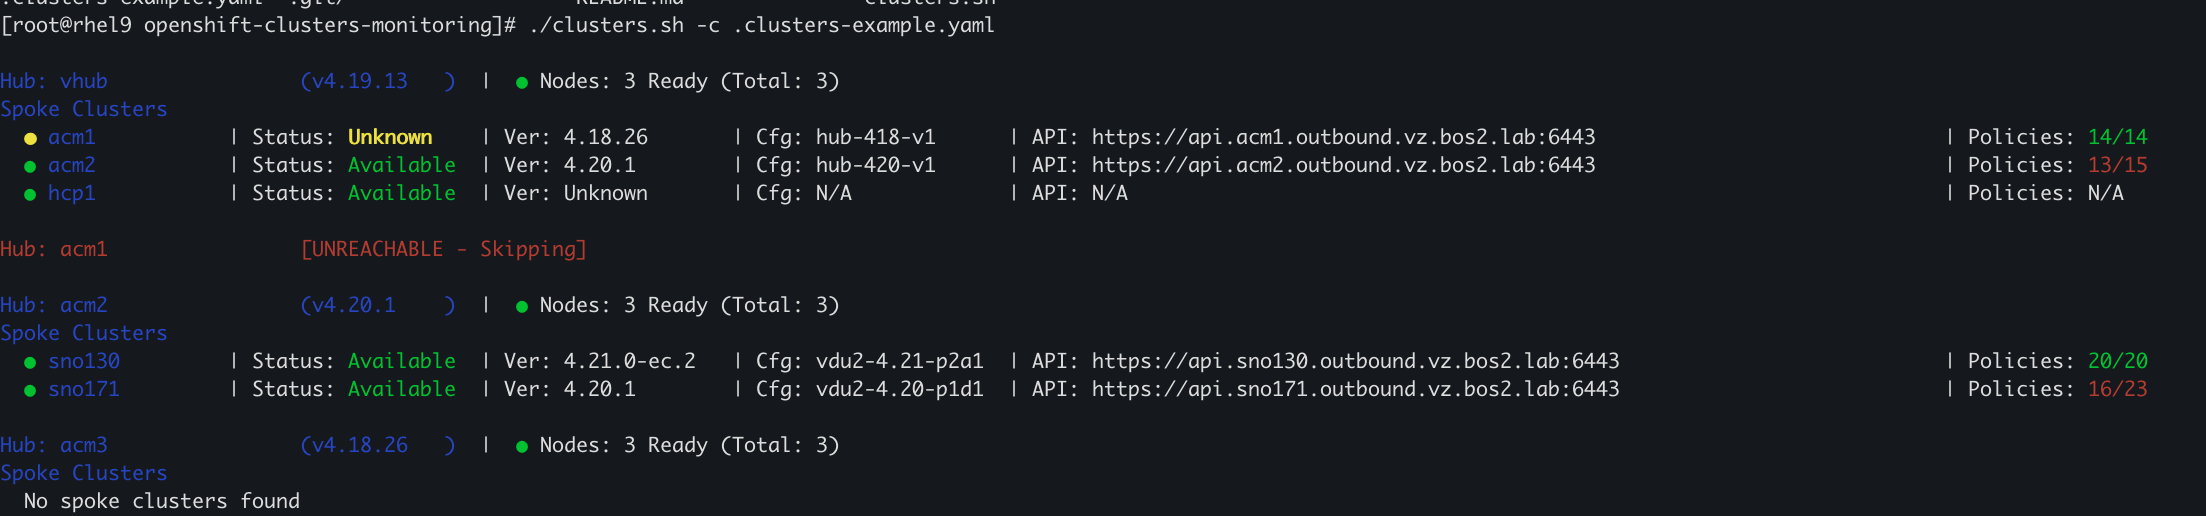
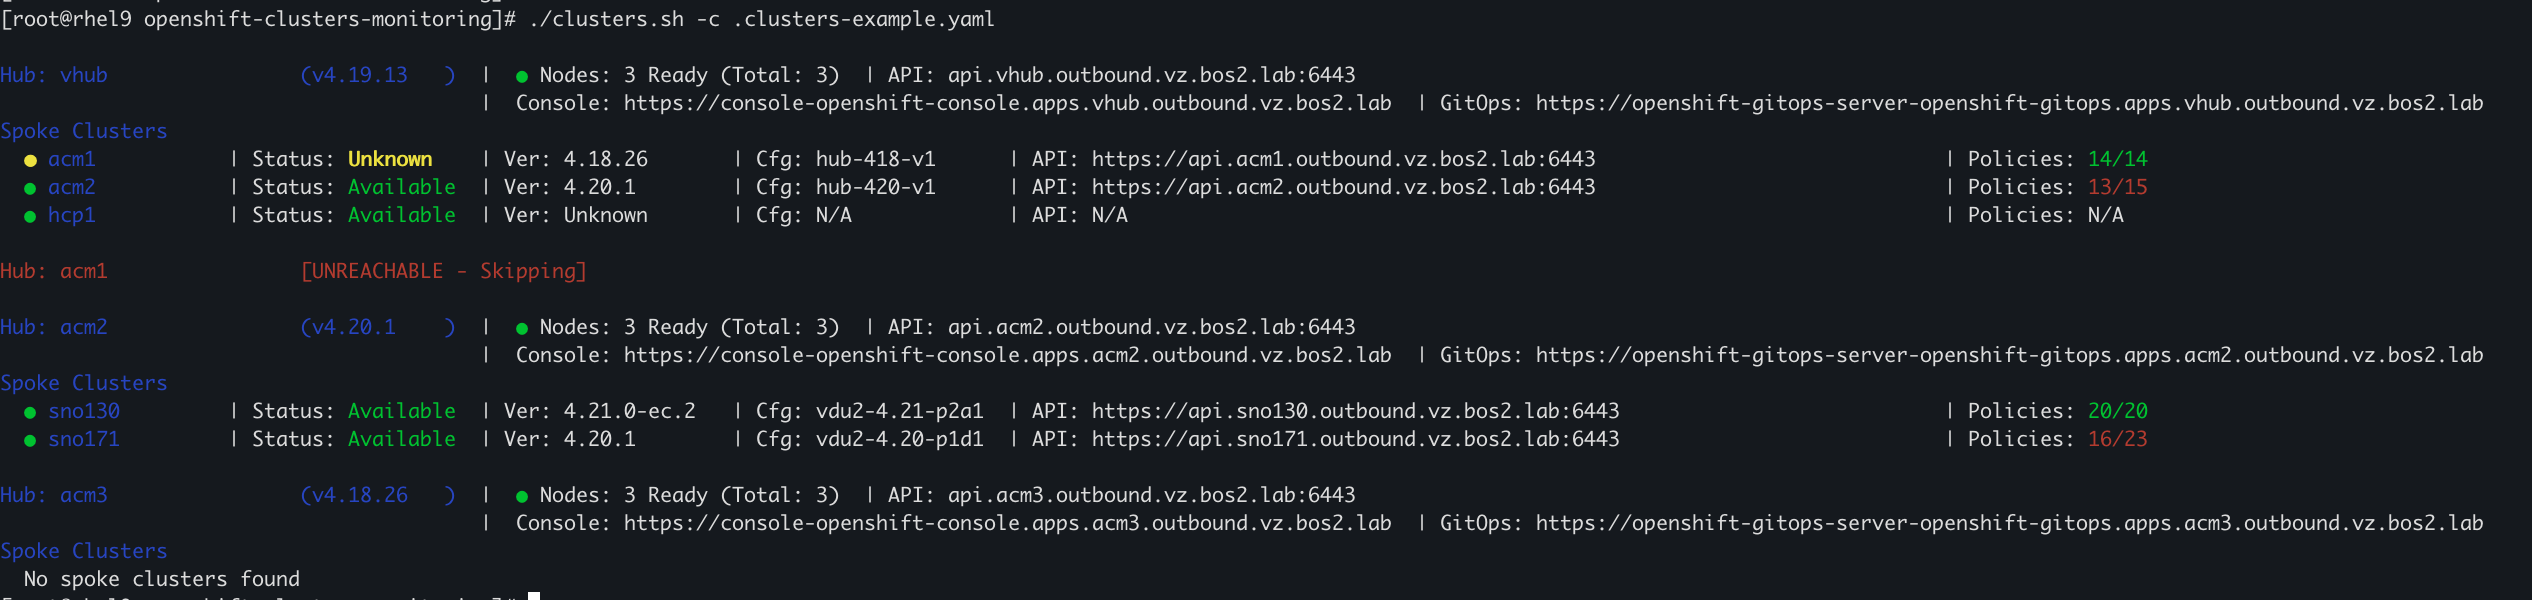
add console/gitops url

diff --git a/README.md b/README.md
@@ -5,7 +5,7 @@ A bash-based monitoring tool for OpenShift Advanced Cluster Management (ACM) env
 ## Overview
 
 This tool creates a visual dashboard that displays:
-- **Hub Cluster Information**: Name, version, and node status
+- **Hub Cluster Information**: Name, version, node status, API URL, Console URL, and GitOps URL
 - **Spoke Clusters**: Status, OpenShift version, configuration version, and API endpoints
 - **Policy Compliance**: Governance policy compliance status for managed clusters
 
